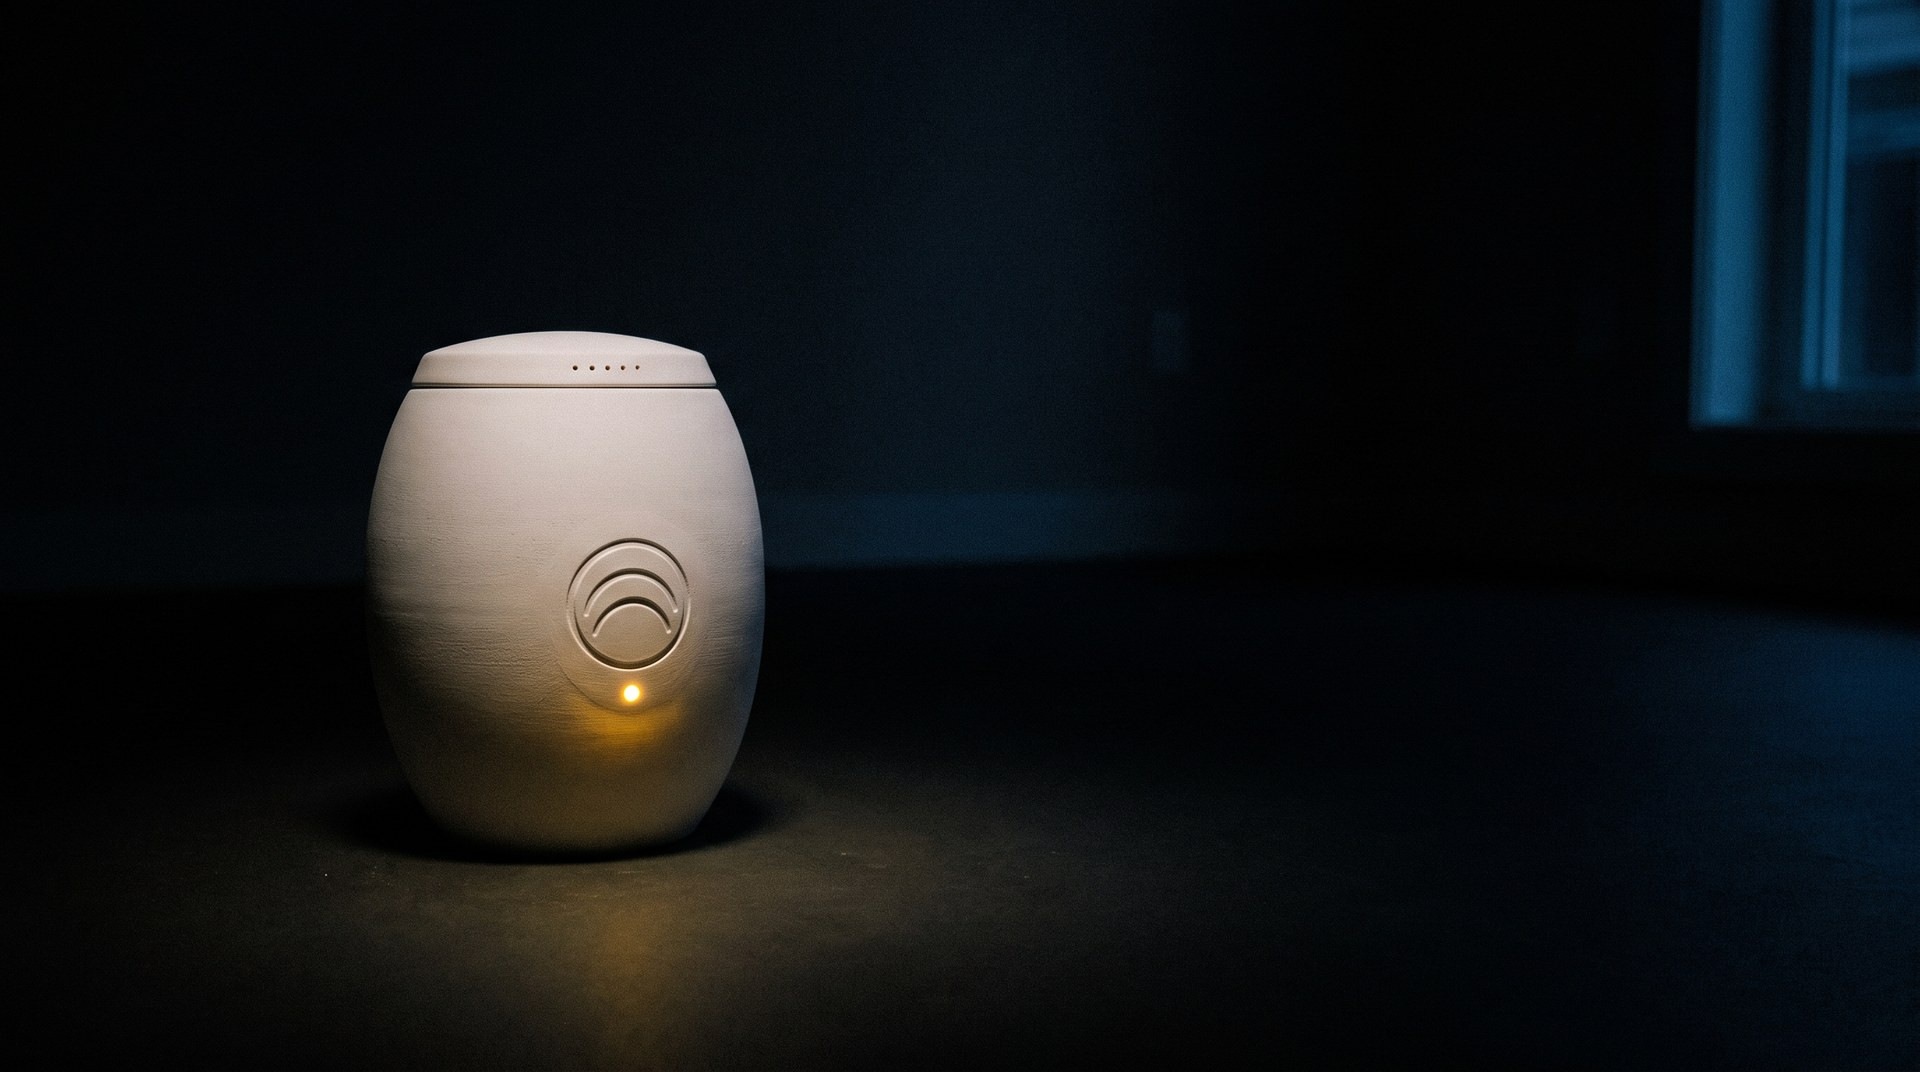
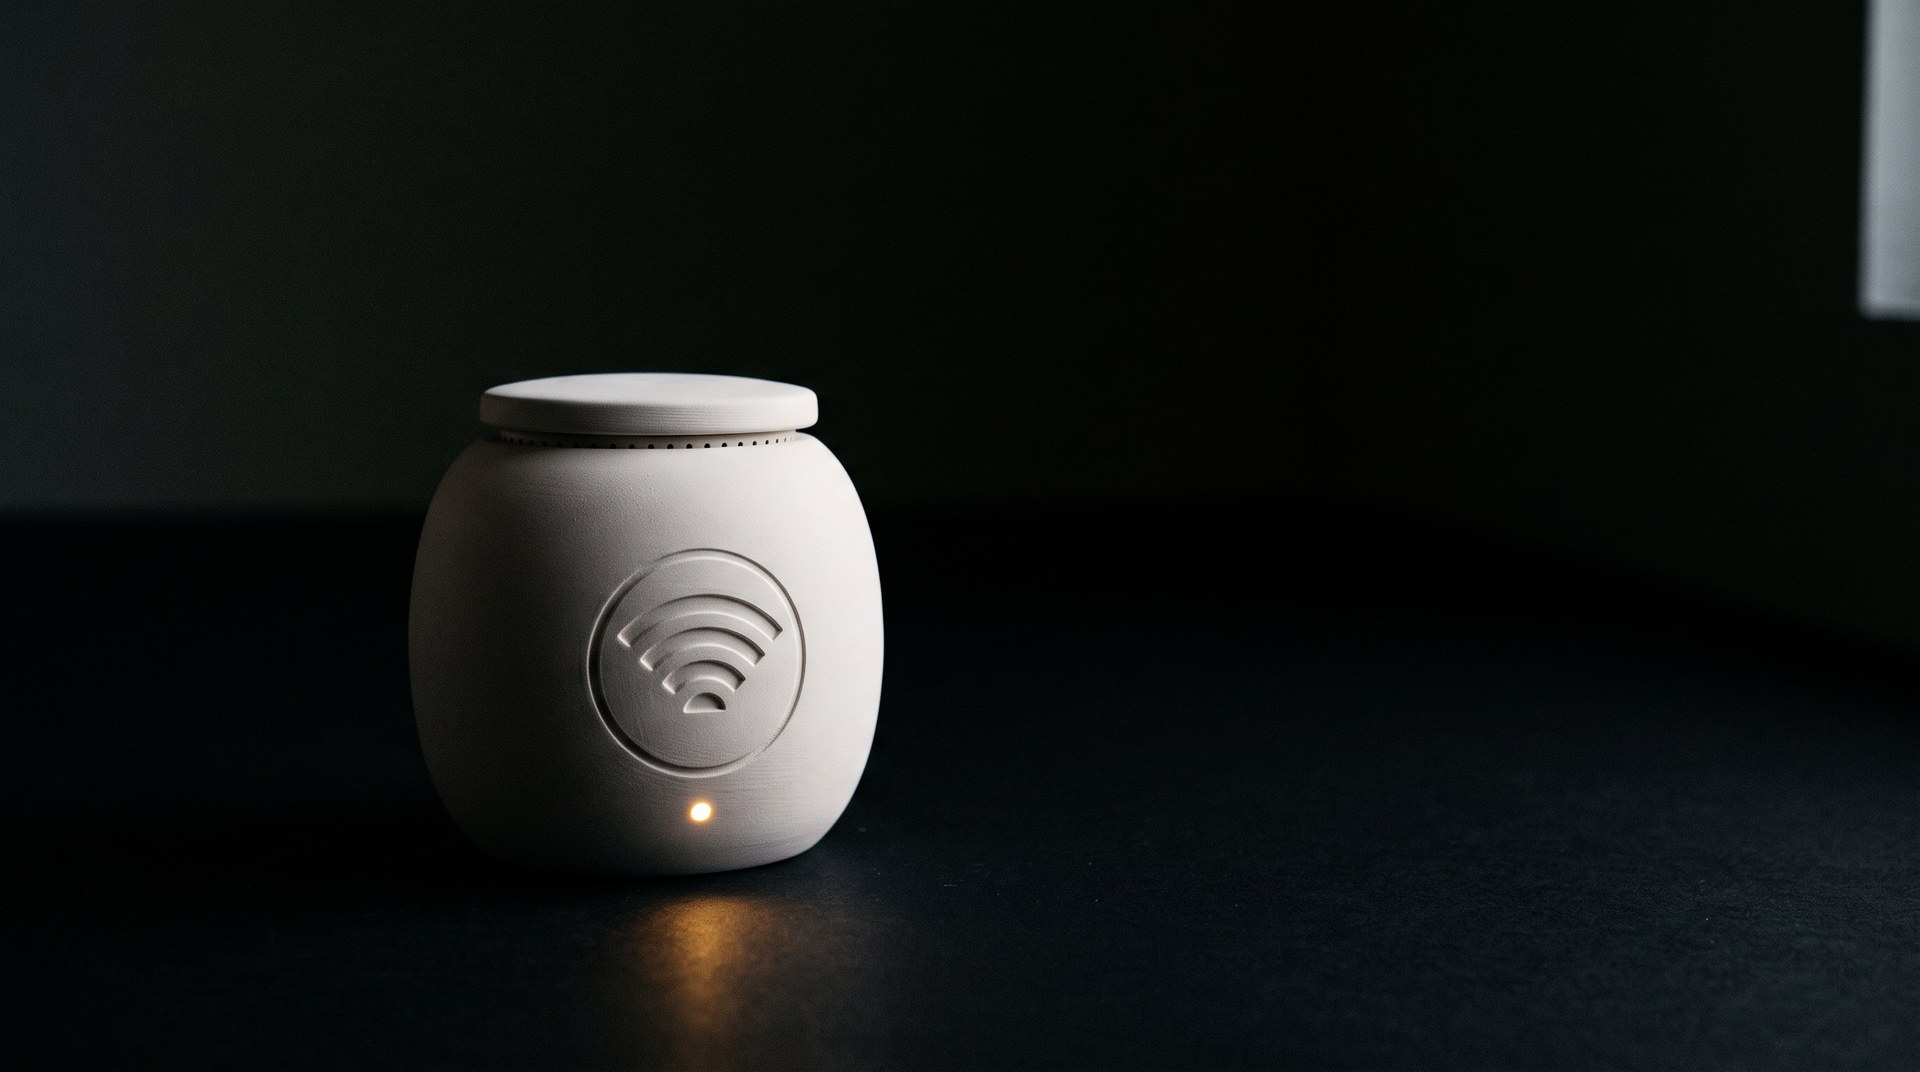
immortal: round 2 revisions from Omar's review
Slide 30: urn option 4 re-rolled so the engraved mark reads as three
nested arcs inside a circle, widest at top, shortest at bottom. Same
composition as before (small urn lower-left, dark room, gold LED as the
only light). Previous render kept as urn-option-4-old.jpg.

Slide 30 copy: 'Not a logo.' becomes 'More than a logo.'

Credits: 'Concert photography by Pooneh Ghana' plus a second line,
'Urn image generated with Higgsfield'.

diff --git a/src/IMMORTAL/index.html b/src/IMMORTAL/index.html
@@ -1318,7 +1318,7 @@
       <p class="type-label mb-4">Every Listen Keeps Them Alive</p>
       <p class="type-body-large color-white mb-2"><span class="slide-30-line-1">T-shirts at the memorial.</span> <span class="slide-30-line-2">Programs&nbsp;at&nbsp;the&nbsp;service.</span></p>
       <p class="type-body-large color-white mb-2"><span class="sentence-1">An urn with a wireless speaker.</span> <span class="sentence-2">A message on a headstone.</span></p>
-      <p class="type-body-large color-white mb-4">Not a logo. A last word from&nbsp;the&nbsp;one&nbsp;you&nbsp;lost.</p>
+      <p class="type-body-large color-white mb-4">More than a logo. A last word from&nbsp;the&nbsp;one&nbsp;you&nbsp;lost.</p>
       <p class="type-headline quote">"I may be gone.<br class="desktop-only">But my show goes on forever."</p>
     </div>
   </section>
@@ -1417,7 +1417,8 @@
       <p class="type-small mb-1">A proactive pitch by</p>
       <p class="type-body color-gold mb-1">Omar Silwany</p>
       <p class="type-small mb-2">Creative Director & Writer</p>
-      <p class="type-small">Photography by Pooneh Ghana</p>
+      <p class="type-small mb-1">Concert photography by Pooneh Ghana</p>
+      <p class="type-small">Urn image generated with Higgsfield</p>
     </div>
   </section>
 
